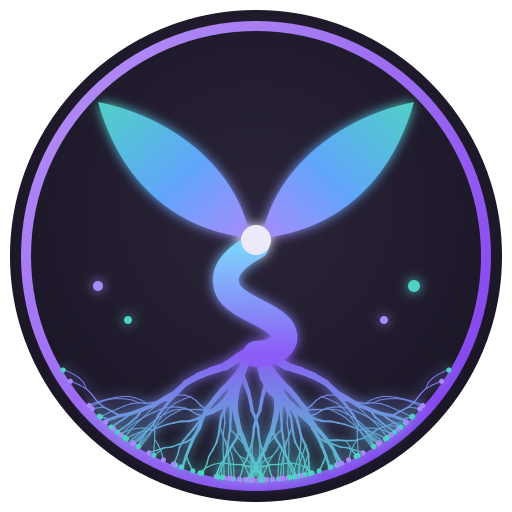
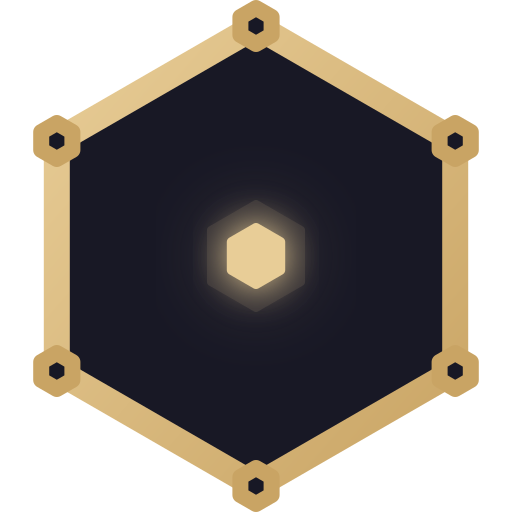
vs code extension support

diff --git a/web/index.html b/web/index.html
@@ -4,12 +4,12 @@
   <meta charset="UTF-8" />
   <meta name="viewport" content="width=device-width, initial-scale=1.0" />
   <title>Sable</title>
-  <link rel="icon" type="image/svg+xml" href="/static/assets/sable_tree.svg?v=3">
+  <link rel="icon" type="image/svg+xml" href="/static/assets/sable_icon.svg?v=5">
 
   <link rel="stylesheet" href="/static/css/variables.css?v=4">
   <link rel="stylesheet" href="/static/css/base.css?v=5">
   <link rel="stylesheet" href="/static/css/layout.css?v=53">
-  <link rel="stylesheet" href="/static/css/ide.css?v=4">
+  <link rel="stylesheet" href="/static/css/ide.css?v=5">
   <link rel="stylesheet" href="/static/css/chat.css?v=34">
   <link rel="stylesheet" href="/static/css/panels.css?v=54">
   <link rel="stylesheet" href="/static/css/components.css?v=14">
@@ -29,7 +29,7 @@
   <!-- Phase 1: Set Password (first-run only) -->
   <div id="phasePassword" class="login-overlay hidden">
     <div class="login-card">
-      <img src="/static/assets/sable_tree.svg" alt="Sable" class="login-logo">
+      <img src="/static/assets/sable_icon.svg" alt="Sable" class="login-logo">
       <h1>Welcome to Sable</h1>
       <p class="login-sub">Choose a password to protect your workspace</p>
       <form id="setupPasswordForm" class="login-form" autocomplete="off">
@@ -43,7 +43,7 @@
   <!-- Phase 2: Browser Login (first-run only) -->
   <div id="phaseBrowser" class="login-overlay hidden">
     <div class="login-card">
-      <img src="/static/assets/sable_tree.svg" alt="Sable" class="login-logo">
+      <img src="/static/assets/sable_icon.svg" alt="Sable" class="login-logo">
       <h1>Connect Account</h1>
       <p class="login-sub">A browser window will open for you to log into Qwen.<br>Complete the login there, then close the browser to continue.</p>
       <button id="setupBrowserBtn" class="login-btn">Open Browser Login</button>
@@ -54,7 +54,7 @@
   <!-- Phase 3: Enter Pass (normal login) -->
   <div id="loginOverlay" class="login-overlay hidden">
     <div class="login-card">
-      <img src="/static/assets/sable_tree.svg" alt="Sable" class="login-logo">
+      <img src="/static/assets/sable_icon.svg" alt="Sable" class="login-logo">
       <h1>Sable</h1>
       <p class="login-sub">Enter your access token to continue</p>
       <form id="loginForm" class="login-form" autocomplete="off">
@@ -124,7 +124,7 @@
     <div class="sidebar-section sidebar-top">
       <div class="brand-row">
         <div class="brand">
-          <img src="/static/assets/sable_tree.svg" alt="Sable">
+          <img src="/static/assets/sable_icon.svg" alt="Sable">
           <div class="brand-text">
             <h1>Sable</h1>
             <span>agentic chat</span>
@@ -1525,7 +1525,7 @@
   <script src="/static/src/research.js?v=10"></script>
   <script src="/static/js/agents.js?v=26"></script>
   <script src="/static/js/filesystem.js?v=31"></script>
-  <script src="/static/js/mode.js?v=19"></script>
+  <script src="/static/js/mode.js?v=20"></script>
   <script src="/static/js/resize-panels.js?v=1"></script>
   <script src="/static/js/terminal.js?v=4"></script>
   <script src="/static/js/cookbook.js?v=4"></script>

diff --git a/web/css/ide.css b/web/css/ide.css
@@ -661,4 +661,40 @@ body[data-mode="ide"] .editor-container .fs-viewer-header {
 .editor-container .fs-monaco-wrap {
   flex: 1;
   min-height: 0;
+
+/* ══════════════════════════════════════════
+   VS CODE EMBED MODE
+   Triggered via postMessage from VS Code extension.
+   Compact chat fills entire viewport. Everything else hidden.
+   ══════════════════════════════════════════ */
+body.vscode-embed .chat-compact,
+body.vscode-embed .chat-compact.hidden {
+  display: flex !important;
+  width: 100vw !important;
+  min-width: unset !important;
+  max-width: unset !important;
+  height: 100dvh !important;
+  margin: 0 !important;
+  padding: 0 !important;
+  border-radius: 0 !important;
+  border: none !important;
+  position: fixed !important;
+  top: 0 !important;
+  left: 0 !important;
+  z-index: 99999 !important;
+}
+/* Hide EVERYTHING except the chat */
+body.vscode-embed .sidebar,
+body.vscode-embed .main,
+body.vscode-embed header,
+body.vscode-embed .diff-sidebar,
+body.vscode-embed #editorPane,
+body.vscode-embed .sidebar-overlay,
+body.vscode-embed .ide-resize-handle,
+body.vscode-embed .compact-header-actions,
+body.vscode-embed .ide-tab-bar,
+body.vscode-embed #diffSidebar,
+body.vscode-embed .monaco-editor,
+body.vscode-embed .fs-monaco-wrap {
+  display: none !important;
 }

diff --git a/web/js/appearance.js b/web/js/appearance.js
@@ -584,12 +584,12 @@
     }
 
     function updateFavicon() {
-      // --- Themed tree: resolved data-URI for favicon + all logo imgs ---
-      if (!window.__sableTree) {
-        window.__sableTree = fetch("/static/assets/sable_tree.svg?v=4")
+      // --- Themed icon: resolved data-URI for favicon + all logo imgs ---
+      if (!window.__sableIcon) {
+        window.__sableIcon = fetch("/static/assets/sable_icon.svg?v=5")
           .then(r => (r.ok ? r.text() : null)).catch(() => null);
       }
-      window.__sableTree.then(txt => {
+      window.__sableIcon.then(txt => {
         if (!txt) return;
         const cs = getComputedStyle(document.documentElement);
         const vars = {
@@ -610,7 +610,7 @@
         link.type = "image/svg+xml";
         link.href = uri;
         if (!window.__sableIconImgs) {
-          window.__sableIconImgs = Array.from(document.querySelectorAll('img[src*="sable_icon"], img[src*="sable_tree"]'));
+          window.__sableIconImgs = Array.from(document.querySelectorAll('img[src*="sable_icon"]'));
         }
         window.__sableIconImgs.forEach(img => { img.src = uri; });
       });

diff --git a/web/js/mode.js b/web/js/mode.js
@@ -65,6 +65,24 @@
     if (window.lucide) window.lucide.createIcons();
   }
 
+  // ─── VS Code Embed Detection ───
+  // When loaded inside VS Code sidebar, add vscode-embed class for CSS overrides.
+  // Forces agent mode + closes diff viewer so only chat is visible.
+  let _isVscodeEmbed = false;
+
+  window.addEventListener('message', function(e) {
+    if (e.data && e.data.type === 'vscode-embed') {
+      if (!_isVscodeEmbed) {
+        _isVscodeEmbed = true;
+        document.body.classList.add('vscode-embed');
+        // Force IDE mode — VS Code sidebar uses compact chat at full width
+        setLayoutMode('ide');
+      }
+      // Always ack so extension stops retrying
+      try { window.parent.postMessage({ type: 'vscode-embed-ack' }, '*'); } catch(err) {}
+    }
+  });
+
   function getLayoutMode() {
     return localStorage.getItem(STORAGE_KEY) || 'agent';
   }

diff --git a/skills/telegram/scripts/telegram_client.py b/skills/telegram/scripts/telegram_client.py
@@ -24,7 +24,9 @@ from typing import Any
 
 _CONFIG_PATHS = [
     Path(__file__).resolve().parents[3] / "system" / ".telegram_config.json",
+    Path.cwd() / "system" / ".telegram_config.json",
     Path.home() / "hdd/projects/Sable/system/.telegram_config.json",
+    Path("/home/sifat/hdd/projects/Sable/system/.telegram_config.json"),
 ]
 
 _SESSION_DIR = None  # resolved at runtime
@@ -206,6 +208,17 @@ async def cmd_send(cfg: dict[str, Any], chat_id: int, text: str) -> dict[str, An
     return {"ok": True, "chat_id": chat_id}
 
 
+async def cmd_send_file(cfg: dict[str, Any], chat_id: int, file_path: str, caption: str | None) -> dict[str, Any]:
+    """Send a file (photo/video/document) to a chat."""
+    p = Path(file_path)
+    if not p.exists():
+        return {"ok": False, "error": f"File not found: {file_path}"}
+    client = await _get_client(cfg)
+    await client.send_file(chat_id, str(p), caption=caption or None)
+    await client.disconnect()
+    return {"ok": True, "chat_id": chat_id, "file": file_path}
+
+
 async def cmd_search_contacts(cfg: dict[str, Any], query: str, limit: int) -> list[dict[str, Any]]:
     """Search contacts/chats by name."""
     client = await _get_client(cfg)
@@ -250,6 +263,12 @@ def main():
     p_send.add_argument("chat_id", type=int, help="Chat/entity ID")
     p_send.add_argument("--text", required=True, help="Message text")
 
+    # send-file
+    p_sendfile = sub.add_parser("send-file", help="Send a file with optional caption")
+    p_sendfile.add_argument("chat_id", type=int, help="Chat/entity ID")
+    p_sendfile.add_argument("--file", required=True, help="Path to file")
+    p_sendfile.add_argument("--caption", default=None, help="Optional caption")
+
     # search
     p_search = sub.add_parser("search", help="Search contacts/chats by name")
     p_search.add_argument("query", help="Search query")
@@ -266,6 +285,8 @@ def main():
         result = asyncio.run(cmd_messages(cfg, args.chat_id, args.limit, args.offset_id))
     elif args.command == "send":
         result = asyncio.run(cmd_send(cfg, args.chat_id, args.text))
+    elif args.command == "send-file":
+        result = asyncio.run(cmd_send_file(cfg, args.chat_id, args.file, args.caption))
     elif args.command == "search":
         result = asyncio.run(cmd_search_contacts(cfg, args.query, args.limit))
     else:

diff --git a/server/api/routes/personas.py b/server/api/routes/personas.py
@@ -81,6 +81,9 @@ async def set_active_persona(request: Request):
             raise HTTPException(404, f"Persona \'{name}\' not found")
     cfg["active"] = name
     _save_config(cfg)
+    # Bust instruction caches for all non-Qwen connectors
+    from connectors.common.instruction_builder import invalidate_cache
+    invalidate_cache()
     try:
         await service.sync_context()
     except Exception as exc:
@@ -101,6 +104,8 @@ async def update_output_format(request: Request):
     body = await request.json()
     fpath = _INSTRUCTION_DIR / "output_format.md"
     fpath.write_text(body.get("content", ""), encoding="utf-8")
+    from connectors.common.instruction_builder import invalidate_cache
+    invalidate_cache()
     return {"status": "ok"}
 
 
@@ -111,6 +116,8 @@ async def toggle_output_format(request: Request):
     cfg = _load_config()
     cfg["output_format_enabled"] = bool(enabled)
     _save_config(cfg)
+    from connectors.common.instruction_builder import invalidate_cache
+    invalidate_cache()
     try:
         await service.sync_context()
     except Exception as exc:
@@ -140,6 +147,8 @@ async def create_persona(request: Request):
     if fpath.exists():
         raise HTTPException(409, f"Persona \'{safe_name}\' already exists")
     fpath.write_text(content, encoding="utf-8")
+    from connectors.common.instruction_builder import invalidate_cache
+    invalidate_cache()
     return {"status": "ok", "name": safe_name}
 
 
@@ -151,6 +160,8 @@ async def update_persona(name: str, request: Request):
     body = await request.json()
     content = body.get("content", "")
     fpath.write_text(content, encoding="utf-8")
+    from connectors.common.instruction_builder import invalidate_cache
+    invalidate_cache()
     return {"status": "ok"}
 
 
@@ -164,4 +175,6 @@ async def delete_persona(name: str):
     if cfg.get("active") == name:
         cfg["active"] = None
     _save_config(cfg)
+    from connectors.common.instruction_builder import invalidate_cache
+    invalidate_cache()
     return {"status": "ok"}

diff --git a/engine/session.py b/engine/session.py
@@ -10,6 +10,23 @@ from pathlib import Path
 import httpx
 from engine.config import COOKIES, BX_UA, BX_UMIDTOKEN, NEW_CHAT_URL, get_model_config
 
+# Persistent Playwright launch counter — survives restarts.
+_LAUNCH_COUNTER_PATH = Path(__file__).resolve().parent.parent / "system" / ".playwright_launches"
+
+
+def _increment_playwright_counter() -> int:
+    """Atomically increment and return the Playwright launch counter."""
+    try:
+        count = int(_LAUNCH_COUNTER_PATH.read_text().strip()) if _LAUNCH_COUNTER_PATH.exists() else 0
+    except (ValueError, OSError):
+        count = 0
+    count += 1
+    try:
+        _LAUNCH_COUNTER_PATH.write_text(str(count))
+    except OSError:
+        pass
+    return count
+
 
 def build_headers(cookies: str | None = None, bx_ua: str | None = None, bx_umidtoken: str | None = None) -> dict[str, str]:
     """Construct HTTP headers with given or fallback cookies and security tokens."""
@@ -70,7 +87,8 @@ class BrowserManager:
         """Lazy-starts the browser context and page if not already running."""
         if not self.playwright:
             self._check_profile_lock()
-            print(f"[DEBUG] Launching persistent browser context (headless={self.headless})...")
+            launch_num = _increment_playwright_counter()
+            print(f"[DEBUG] Launching persistent browser context #{launch_num} (headless={self.headless})...")
             from playwright.async_api import async_playwright
             self.playwright = await async_playwright().start()
             self.context = await self.playwright.chromium.launch_persistent_context(

diff --git a/connectors/deepseek/client.py b/connectors/deepseek/client.py
@@ -221,15 +221,19 @@ def _trim_history(history: list[dict[str, Any]], prefix_len: int, max_chars: int
 # Instruction loading — uses shared builder with project-aware overrides
 _instruction_cache: str | None = None
 _cached_project_id: str | None = "__none__"
+_cached_version: int = -1
 
 
 def _load_instructions(project_id: str | None = None) -> str:
     """Load instruction context for first-message injection. Project-aware."""
-    global _instruction_cache, _cached_project_id
-    # Invalidate cache when project changes
-    if project_id != _cached_project_id:
+    global _instruction_cache, _cached_project_id, _cached_version
+    from connectors.common.instruction_builder import get_instruction_version
+    current_version = get_instruction_version()
+    # Invalidate cache when project or instruction version changes
+    if project_id != _cached_project_id or current_version != _cached_version:
         _instruction_cache = None
         _cached_project_id = project_id
+        _cached_version = current_version
     if _instruction_cache is not None:
         return _instruction_cache
     from connectors.common.instruction_builder import build_instructions

diff --git a/connectors/common/openai_compat.py b/connectors/common/openai_compat.py
@@ -169,6 +169,7 @@ class OpenAICompatClient:
         self._http: httpx.AsyncClient | None = None
         self._instruction_cache: str | None = None
         self._cached_project_id: str | None = "__none__"
+        self._cached_version: int = -1
 
     # ------------------------------------------------------------------
     # Key management
@@ -238,9 +239,12 @@ class OpenAICompatClient:
     def _load_instructions(self, project_id: str | None = None) -> str:
         mode = self.INSTRUCTION_MODE
         if mode == "project":
-            if project_id != self._cached_project_id:
+            from connectors.common.instruction_builder import get_instruction_version
+            current_version = get_instruction_version()
+            if project_id != self._cached_project_id or current_version != self._cached_version:
                 self._instruction_cache = None
                 self._cached_project_id = project_id
+                self._cached_version = current_version
             if self._instruction_cache is not None:
                 return self._instruction_cache
             from connectors.common.instruction_builder import build_instructions

diff --git a/connectors/gemini/client.py b/connectors/gemini/client.py
@@ -101,14 +101,18 @@ def _save_keys(keys: list[str]) -> None:
 
 _instruction_cache: str | None = None
 _cached_project_id: str | None = "__none__"
+_cached_version: int = -1
 
 
 def _load_instructions(project_id: str | None = None) -> str:
     """Load instruction context. Project-aware via shared builder."""
-    global _instruction_cache, _cached_project_id
-    if project_id != _cached_project_id:
+    global _instruction_cache, _cached_project_id, _cached_version
+    from connectors.common.instruction_builder import get_instruction_version
+    current_version = get_instruction_version()
+    if project_id != _cached_project_id or current_version != _cached_version:
         _instruction_cache = None
         _cached_project_id = project_id
+        _cached_version = current_version
     if _instruction_cache is not None:
         return _instruction_cache
     from connectors.common.instruction_builder import build_instructions

diff --git a/connectors/common/instruction_builder.py b/connectors/common/instruction_builder.py
@@ -17,6 +17,20 @@ _INSTRUCTION_DIR = Path(__file__).resolve().parent.parent.parent / "instruction"
 _SKILLS_DIR = Path(__file__).resolve().parent.parent.parent / "skills"
 _PROJECT_ROOT = Path(__file__).resolve().parent.parent.parent
 
+# Cache-busting version counter — incremented on persona/instruction changes
+# so all connectors (Gemini, DeepSeek, Mistral/OpenAI-compat) detect stale caches.
+_instruction_version: int = 0
+
+
+def invalidate_cache() -> None:
+    """Bump the instruction version to force all connectors to rebuild."""
+    global _instruction_version
+    _instruction_version += 1
+
+
+def get_instruction_version() -> int:
+    return _instruction_version
+
 
 def _get_project(project_id: str | None) -> dict[str, Any] | None:
     """Load project config from DB. Returns None if no project or lookup fails."""

diff --git a/server/api/routes/settings.py b/server/api/routes/settings.py
@@ -1075,6 +1075,8 @@ async def switch_account(payload: dict[str, str]) -> dict[str, Any]:
                     get_deepseek_client().set_token(ds_token, account=account)
                 except Exception as exc:
                     logger.warning("DeepSeek token extraction failed for %s: %s", account, exc)
+            from connectors.common.instruction_builder import invalidate_cache
+            invalidate_cache()
             try:
                 await service.sync_context()
             except Exception as exc:
